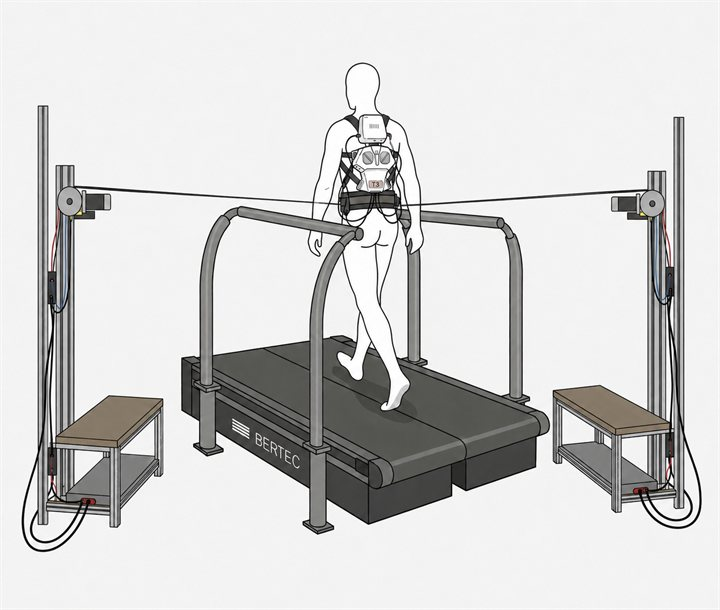
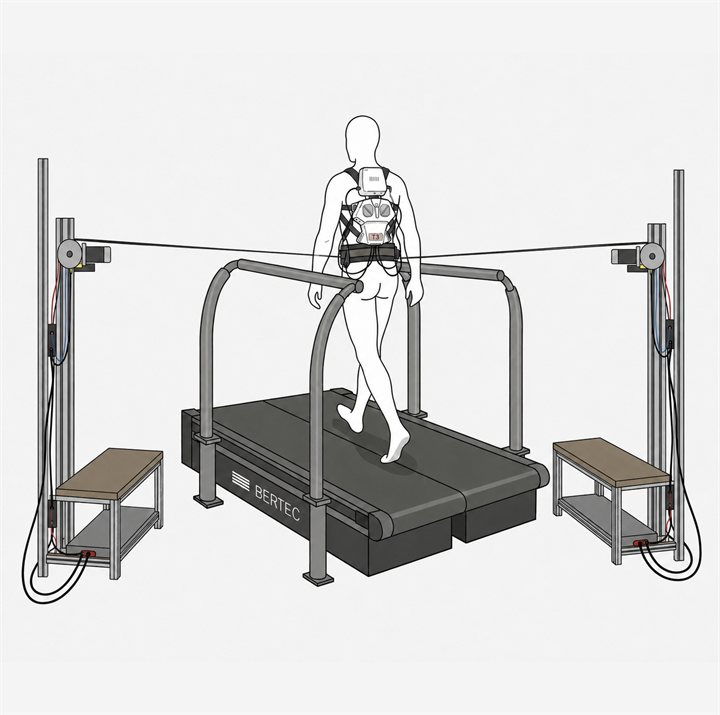
H-Medi: use new edited photo, revert to fill, cache-bust v3

diff --git a/index.html b/index.html
@@ -136,7 +136,6 @@
     .card-media{position:relative;width:100%;aspect-ratio:1/1;border-radius:12px;overflow:hidden;
       margin:0 0 16px;background:#0b1220;cursor:pointer;}
     .card-media img,.card-media video{position:absolute;inset:0;width:100%;height:100%;object-fit:cover;object-position:center;display:block;}
-    .card-media.fit-contain img{object-fit:contain;}
     .card-media video{opacity:0;transition:opacity .2s ease;}
     .card-media.playing video{opacity:1;}
     .gm-hint{position:absolute;left:10px;bottom:10px;z-index:2;display:inline-flex;align-items:center;gap:6px;
@@ -371,8 +370,8 @@
           <a class="venue" href="https://doi.org/10.1186/s12984-026-02044-0" target="_blank" rel="noopener">J. NeuroEng. Rehabil. 2026<svg viewBox="0 0 24 24" aria-hidden="true"><path d="M14 3v2h3.59l-9.3 9.29 1.42 1.42L19 6.41V10h2V3h-7zM19 19H5V5h7V3H5a2 2 0 0 0-2 2v14a2 2 0 0 0 2 2h14a2 2 0 0 0 2-2v-7h-2v7z"/></svg></a>
         </div>
         <div class="card reveal">
-          <div class="card-media fit-contain" data-media data-vids="assets/hmedi/1.mp4,assets/hmedi/2.mp4">
-            <img class="gm-img" src="assets/hmedi/photo.jpg?v=2" alt="H-Medi mediolateral balance exosuit" loading="lazy">
+          <div class="card-media" data-media data-vids="assets/hmedi/1.mp4,assets/hmedi/2.mp4">
+            <img class="gm-img" src="assets/hmedi/photo.jpg?v=3" alt="Mediolateral balance recovery with H-Medi exosuit" loading="lazy">
             <video class="gm-vid" muted playsinline preload="none"></video>
             <span class="gm-hint">&#9654; Hover to play</span>
           </div>